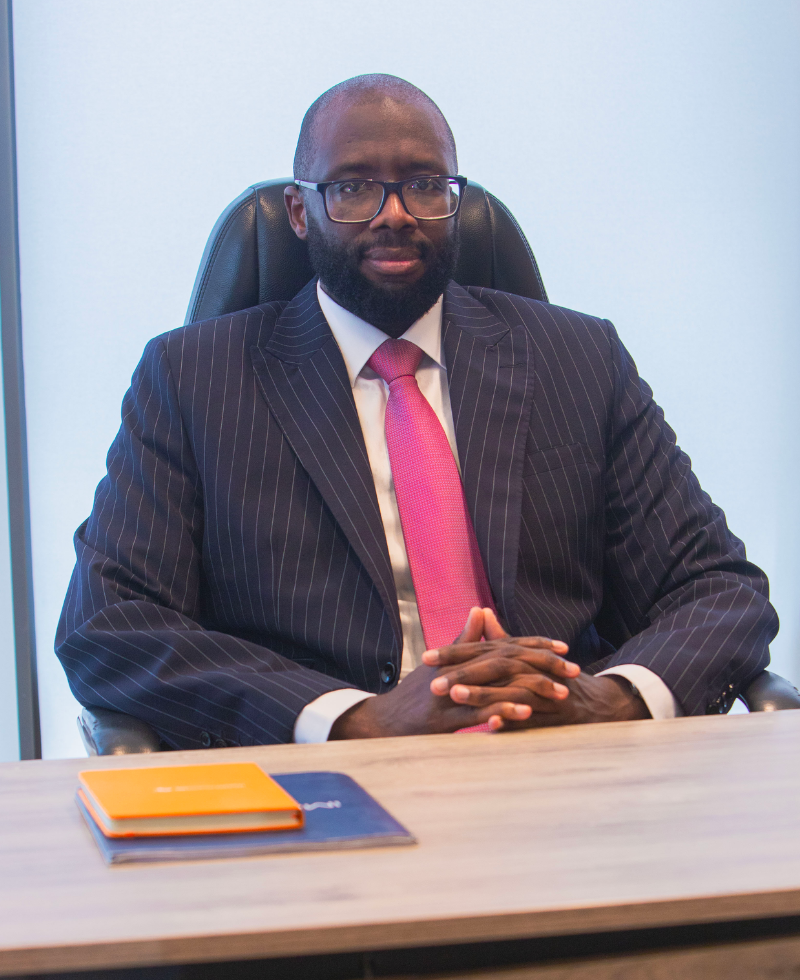
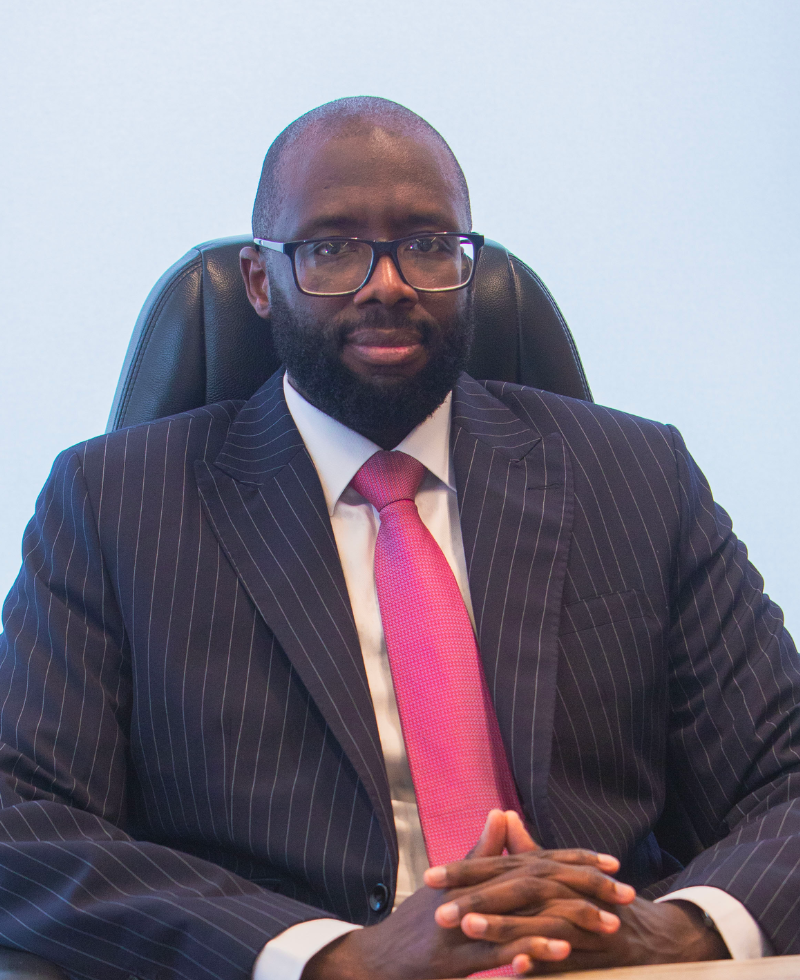
Updating information contact

diff --git a/resources/views/contact.blade.php b/resources/views/contact.blade.php
@@ -107,7 +107,8 @@
 
     <div class="row">
         <div class="col-md-12">
-            <iframe src="https://www.google.com/maps/embed?pb=!1m18!1m12!1m3!1d3859.279877085147!2d-17.470906298920998!3d14.696758304031952!2m3!1f0!2f0!3f0!3m2!1i1024!2i768!4f13.1!3m3!1m2!1s0xec1729a8afb3b95%3A0xdc352c7b6f794677!2sFann%20R%C3%A9sidence%2C%20170%20Av.%20des%20Ambassadeurs%2C%20Dakar%2010700%2C%20S%C3%A9n%C3%A9gal!5e0!3m2!1sfr!2sci!4v1760378963450!5m2!1sfr!2sci" width="100%" height="450" style="border:0;" allowfullscreen="" loading="lazy" referrerpolicy="no-referrer-when-downgrade"></iframe>
+            <iframe src="https://www.google.com/maps/embed?pb=!1m18!1m12!1m3!1d3859.2722684284927!2d-17.47092432573162!3d14.69718897470625!2m3!1f0!2f0!3f0!3m2!1i1024!2i768!4f13.1!3m3!1m2!1s0xec1729a7b91609d%3A0x498fe376c67b95ce!2sx%2C%20103%20Av.%20des%20Ambassadeurs%2C%20Dakar%2C%20S%C3%A9n%C3%A9gal!5e0!3m2!1sfr!2sci!4v1787571577425!5m2!1sfr!2sci" width="100%" height="450" style="border:0;" allowfullscreen="" loading="lazy" referrerpolicy="strict-origin-when-cross-origin"></iframe>
+            {{-- <iframe src="https://www.google.com/maps/embed?pb=!1m18!1m12!1m3!1d3859.279877085147!2d-17.470906298920998!3d14.696758304031952!2m3!1f0!2f0!3f0!3m2!1i1024!2i768!4f13.1!3m3!1m2!1s0xec1729a8afb3b95%3A0xdc352c7b6f794677!2sFann%20R%C3%A9sidence%2C%20170%20Av.%20des%20Ambassadeurs%2C%20Dakar%2010700%2C%20S%C3%A9n%C3%A9gal!5e0!3m2!1sfr!2sci!4v1760378963450!5m2!1sfr!2sci" width="100%" height="450" style="border:0;" allowfullscreen="" loading="lazy" referrerpolicy="no-referrer-when-downgrade"></iframe> --}}
         </div>
     </div>
 
@@ -122,19 +123,22 @@
                             <p class="">
                                 <div class="info-inline ">
                                     <div class="icon"><i class="bi bi-geo-alt" style="margin-left: 10px"></i></div>
-                                    <div class="text-5">Fann Résidence rue Aimé Césaire x Corniche Villa 103. BP 45545 Dakar – SENEGAL</div>
+                                    <div class="text-5">Avenue Cheikh Anta DIOP X Avenue des Ambassadeurs, 103 Fann, B.P. 45545, Dakar, SÉNÉGAL</div>
                                 </div>
                             </p>
                             <p>
                                 <div class="info-inline ">
-                                    <div class="icon"><i class="bi bi-phone" style="margin-left: 10px"></i></div>
+                                    <div class="icon"><i class="bi bi-phone" style="margin-left: 10px"></i></div> 
                                     <div class="text-5"><a href="tel:+221338693140">(+221) 33 869 3140</a></div>
                                 </div>
                             </p>
                             <p>
                                 <div class="info-inline ">
                                     <div class="icon"><i class="bi bi-envelope-at" style="margin-left: 10px"></i></div>
-                                    <div class="text-5"><a href="mailto:serviceclient@impaxis-securities.com">serviceclient@impaxis-securities.com</a></div>
+                                    <div class="text-5">
+                                        <a href="mailto:serviceclient@impaxis-securities.com">serviceclient@impaxis-securities.com</a><br>
+                                        <a href="mailto:service.clients@impaxis-am.com">service.clients@impaxis-am.com</a>
+                                    </div>
                                 </div>
                             </p>
                         </div>

diff --git a/database/seeders/TeamMemberSeeder.php b/database/seeders/TeamMemberSeeder.php
@@ -48,10 +48,10 @@ class TeamMemberSeeder extends Seeder
                 ",
             ],
             [
-                'name' => 'M. Babacar Ndoye',
-                'slug' => Str::slug('M. Babacar Ndoye'),
+                'name' => 'Babacar Ndoye',
+                'slug' => Str::slug('Babacar Ndoye'),
                 'lang' => 'fr',
-                'role' => 'Directeur Général d\'Impaxis Securities',
+                'role' => 'Directeur Général d’Impaxis Asset Management',
                 'experience' => '+15',
                 'avatar' => public_path() . '/assets/image/equipes/babacar-ndoye.png',
                 'bio' => "
@@ -98,10 +98,10 @@ class TeamMemberSeeder extends Seeder
                 ",
             ],
             [
-                'name' => 'M. Babacar Ndoye',
-                'slug' => Str::slug('M. Babacar Ndoye en'),
+                'name' => 'Babacar Ndoye',
+                'slug' => Str::slug('Babacar Ndoye en'),
                 'lang' => 'en',
-                'role' => 'Managing Director of Impaxis Securities',
+                'role' => 'Managing Director of Impaxis Asset Management',
                 'experience' => '+15',
                 'avatar' => public_path() . '/assets/image/equipes/babacar-ndoye.png',
                 'bio' => "

diff --git a/resources/views/layouts/app.blade.php b/resources/views/layouts/app.blade.php
@@ -181,41 +181,3 @@
 </body>
 </html>
 
-
-
-{{-- <!DOCTYPE html>
-<html lang="{{ str_replace('_', '-', app()->getLocale()) }}">
-    <head>
-        <meta charset="utf-8">
-        <meta name="viewport" content="width=device-width, initial-scale=1">
-        <meta name="csrf-token" content="{{ csrf_token() }}">
-
-        <title>{{ config('app.name', 'Laravel') }}</title>
-
-        <!-- Fonts -->
-        <link rel="preconnect" href="https://fonts.bunny.net">
-        <link href="https://fonts.bunny.net/css?family=figtree:400,500,600&display=swap" rel="stylesheet" />
-
-        <!-- Scripts -->
-        @vite(['resources/css/app.css', 'resources/js/app.js'])
-    </head>
-    <body class="font-sans antialiased">
-        <div class="min-h-screen bg-gray-100">
-            @include('layouts.navigation')
-
-            <!-- Page Heading -->
-            @if (isset($header))
-                <header class="bg-white shadow">
-                    <div class="max-w-7xl mx-auto py-6 px-4 sm:px-6 lg:px-8">
-                        {{ $header }}
-                    </div>
-                </header>
-            @endif
-
-            <!-- Page Content -->
-            <main>
-                {{ $slot }}
-            </main>
-        </div>
-    </body>
-</html> --}}

diff --git a/resources/views/layouts/partials/footer.blade.php b/resources/views/layouts/partials/footer.blade.php
@@ -10,7 +10,7 @@
                 </div>
                 <div class="col-md-6 footer-right-content">
                     <i class="bi bi-linkedin"></i>
-                    <a href="https://linkedin.com/" target="_blank" style="margin-left: 4px">Linkedin</a>
+                    <a href="https://www.linkedin.com/company/impaxis-securities/posts/?feedView=all" target="_blank" style="margin-left: 4px">Linkedin</a>
                 </div>
             </div>
 
